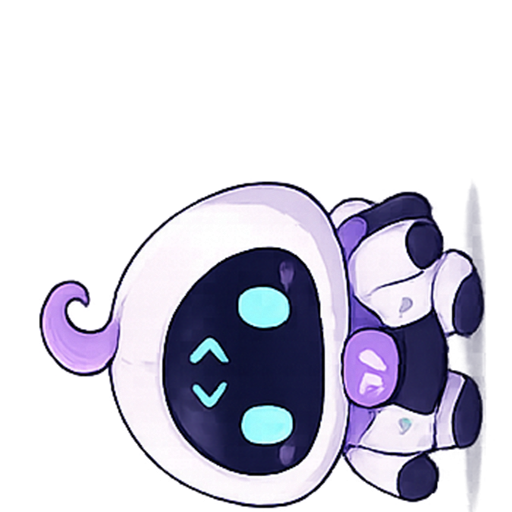
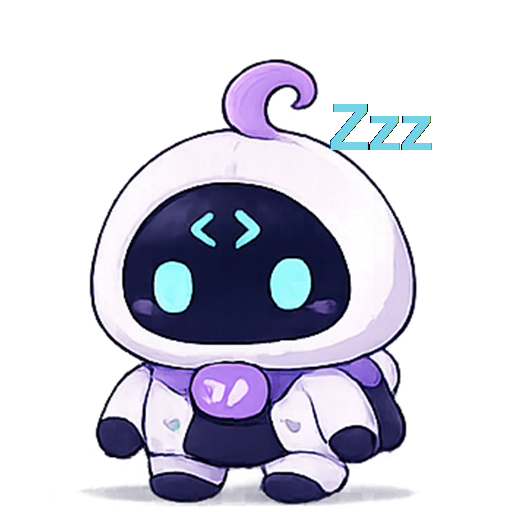
Refine wall cling and sleep wake behavior

diff --git a/renderer.js b/renderer.js
@@ -168,7 +168,7 @@ function stopFreeWalk() {
   freeWalkTimer = null;
 }
 
-async function playWallClimbAnimation() {
+async function playWallClingAnimation(edgeDirection = walkingDirection) {
   if (isWallClimbing) {
     return;
   }
@@ -177,19 +177,11 @@ async function playWallClimbAnimation() {
   stopWalkingMovement();
   setPetState('wallClimb');
 
-  for (let i = 0; i < 14; i += 1) {
-    await window.petWindow.moveWindowBy({ dx: 0, dy: -5 });
-    await wait(90);
-  }
-
-  for (let i = 0; i < 10; i += 1) {
-    await window.petWindow.moveWindowBy({ dx: 0, dy: 4 });
-    await wait(90);
-  }
+  await wait(2600);
 
   isWallClimbing = false;
-  setPetState('normal');
-  scheduleFreeWalk();
+  setPetState('walking');
+  walkingDirection = -edgeDirection;
 }
 
 function startWalkingMovement(duration = 12000) {
@@ -217,7 +209,7 @@ function startWalkingMovement(duration = 12000) {
       });
 
       if (result?.hitEdge) {
-        await playWallClimbAnimation();
+        await playWallClingAnimation(walkingDirection);
       }
     } finally {
       isWalkingMovePending = false;
@@ -328,6 +320,7 @@ function startSleep() {
   clearDailyStateReset();
   stopFreeWalk();
   stopWalkingMovement();
+  updateMousePassthrough(false);
   setPetState('sleep');
   showBubble('Zzz...', 1800);
 }
@@ -342,6 +335,7 @@ async function wakeFromSleep() {
   showBubble('别吵啦！', 1600);
   await wait(1400);
   setPetState('normal');
+  updateMousePassthrough(true);
   scheduleDailyStateChange(90000);
   scheduleFreeWalk(45000);
 }
@@ -632,7 +626,7 @@ function handleMenuAction(data) {
     }
 
     if (payload.state === 'wallClimb') {
-      playWallClimbAnimation();
+      playWallClingAnimation();
       return;
     }
 